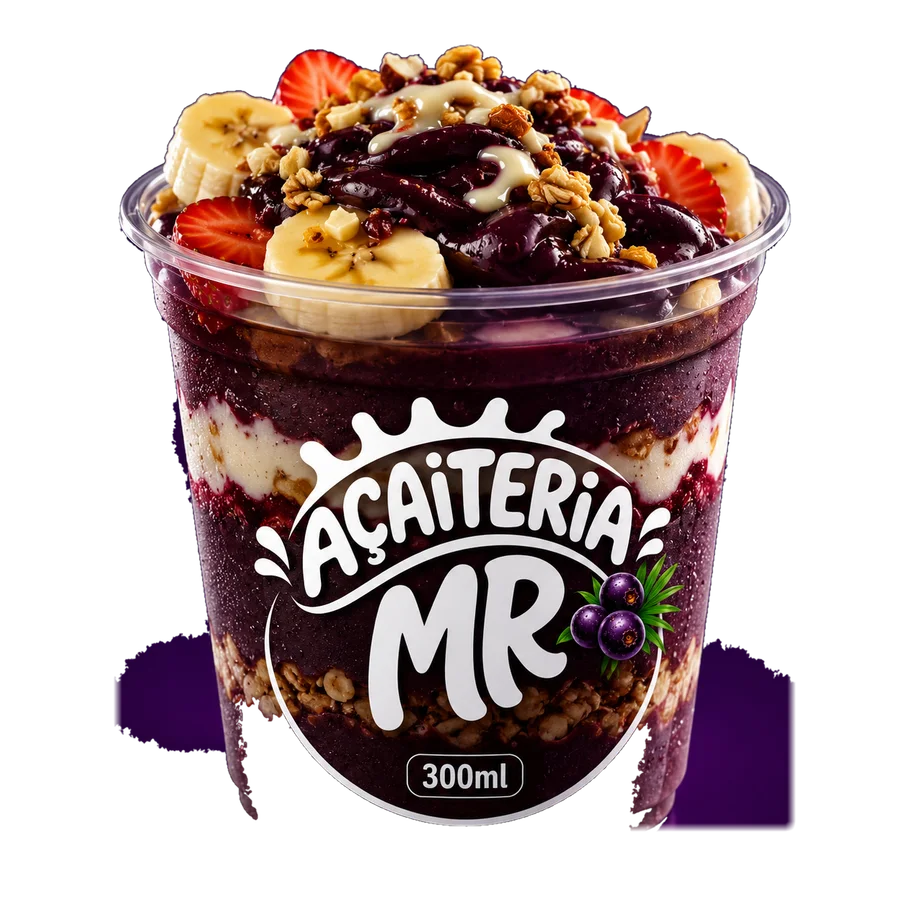
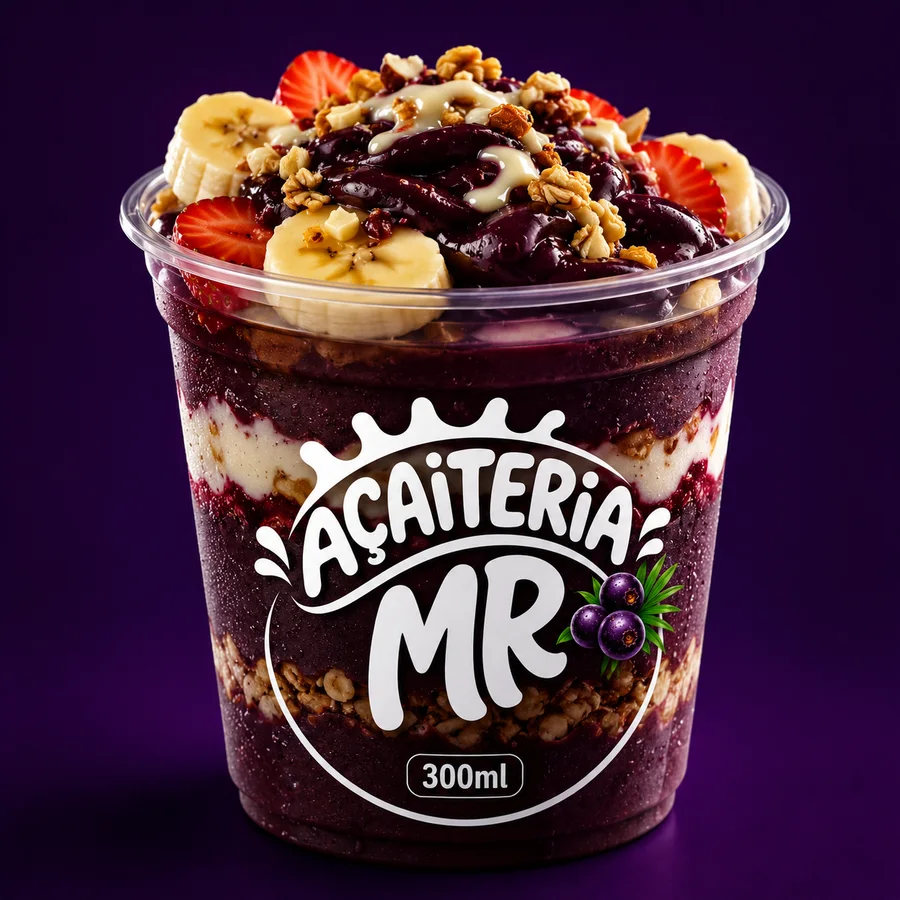
fix(builder): foto preenchendo o quadro do card em vez do recorte com sobras

diff --git a/site/src/components/builder/SizeSelector.tsx b/site/src/components/builder/SizeSelector.tsx
@@ -32,25 +32,20 @@ export function SizeSelector({ sizes, selected, onSelect }: SizeSelectorProps) {
           >
             {isSelected && <SelectedCheck />}
 
-            <span
-              className={`grid size-20 shrink-0 place-items-center overflow-hidden rounded-2xl transition-colors sm:size-auto sm:aspect-square sm:w-full ${
-                isSelected ? 'bg-acai-900' : 'bg-acai-50 group-hover:bg-acai-100'
-              }`}
-            >
+            {/* A foto preenche o quadro: o fundo roxo do estúdio vira o fundo do card. */}
+            <span className="grid aspect-square size-24 shrink-0 place-items-center overflow-hidden rounded-2xl bg-acai-900 sm:size-auto sm:w-full">
               {size.image ? (
                 <img
                   src={size.image}
                   alt=""
                   loading="lazy"
                   decoding="async"
-                  className={`size-full object-contain transition-transform duration-300 ${
-                    isSelected ? 'scale-105' : 'group-hover:scale-105'
+                  className={`size-full object-cover transition-transform duration-500 ${
+                    isSelected ? 'scale-[1.06]' : 'group-hover:scale-[1.06]'
                   }`}
                 />
               ) : (
-                <span className={`text-lg font-extrabold ${isSelected ? 'text-white' : 'text-acai-700'}`}>
-                  {size.volume}
-                </span>
+                <span className="text-xl font-extrabold text-white/90">{size.volume}</span>
               )}
             </span>
 

diff --git a/README.md b/README.md
@@ -66,7 +66,7 @@ cd site
 npm run images
 ```
 
-Isso produz `public/imagem/`: foto do produto em WebP 900px, logo em WebP
+Isso produz `public/imagem/`: fotos de produto em WebP 900px (com o fundo roxo do estúdio, exibidas em quadro `object-cover`), logo em WebP
 256px, ícone PNG 192px e a imagem de compartilhamento `og.jpg` (1200x630).
 Para adicionar a foto de um novo produto, jogue o original em
 `assets-originais/`, registre em `scripts/optimize-images.mjs` e aponte o campo
